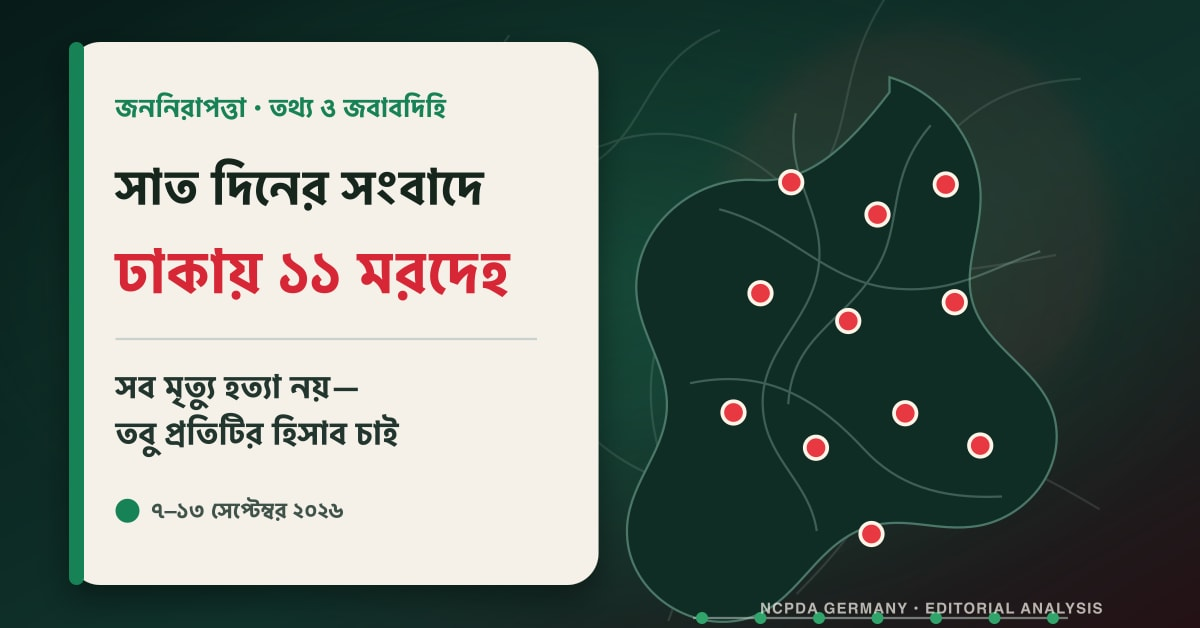
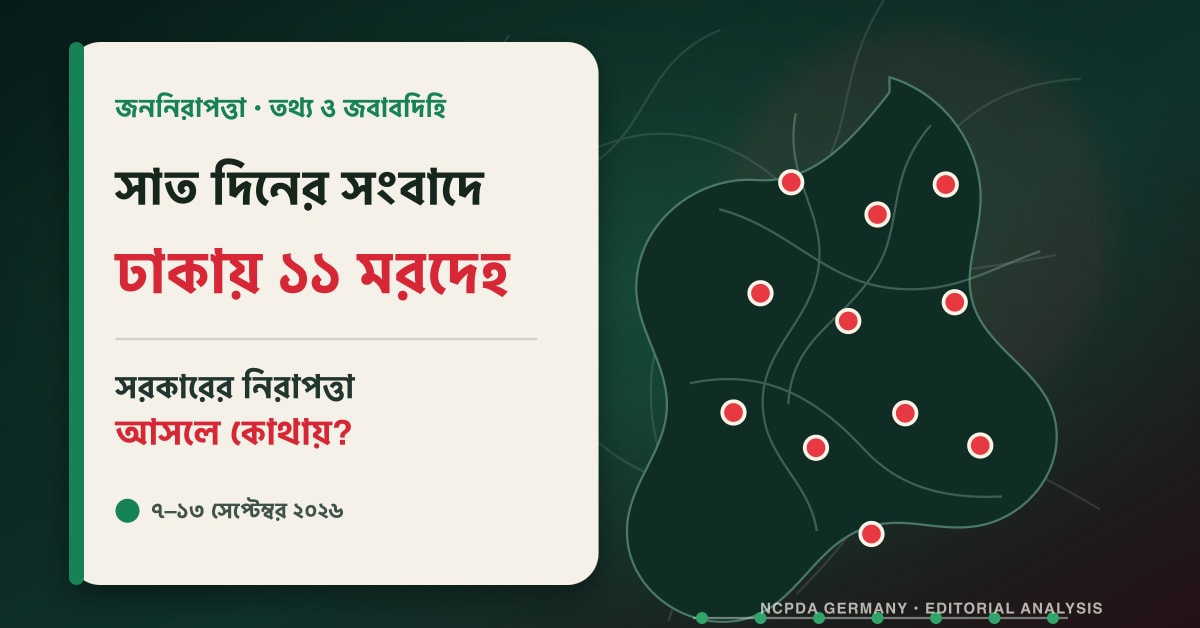
Strengthen public safety editorial voice

Changed region(s): [[0.0925, 0.5748, 0.3392, 0.7261]]

diff --git a/blog/dhaka-seven-days-eleven-bodies-public-safety-2026/index.html b/blog/dhaka-seven-days-eleven-bodies-public-safety-2026/index.html
@@ -5,16 +5,16 @@
   <meta name="viewport" content="width=device-width, initial-scale=1">
   <meta name="robots" content="index,follow,max-image-preview:large,max-snippet:-1,max-video-preview:-1">
   <meta name="theme-color" content="#0d6130">
-  <title>সাত দিনের সংবাদে ঢাকায় ১১ মরদেহ: সব মৃত্যু হত্যা নয়—তবু নিরাপত্তার হিসাব কোথায়? | NCP Diaspora Alliance Germany</title>
-  <meta name="description" content="৭–১৩ সেপ্টেম্বরের সংবাদ-অনুসন্ধানে ঢাকার বিভিন্ন স্থান থেকে অন্তত ১১ জনের মরদেহ উদ্ধারের খবর মিলেছে। সবগুলো হত্যা নয়; তবু সহিংস মৃত্যু, অজ্ঞাত মরদেহ ও তদন্তের অগ্রগতি নিয়ে সরকারের প্রকাশ্য হিসাব জরুরি।">
+  <title>সাত দিনে রাজধানীতে ১১ মরদেহ: নিরাপত্তার ব্যর্থতা আর কত মৃত্যুতে স্বীকার করবে সরকার? | NCP Diaspora Alliance Germany</title>
+  <meta name="description" content="খণ্ডিত নারী, মাটিচাপা ব্যবসায়ী, ছুরিকাহত যুবক আর পরিচয়হীন মরদেহ—এক সপ্তাহের ঢাকা সরকারের নিরাপত্তা-দাবির সামনে নির্মম প্রশ্ন রেখে গেছে। জবাব এখন বিবৃতিতে নয়, দৃশ্যমান ফল ও প্রকাশ্য হিসাবে দিতে হবে।">
   <link rel="canonical" href="https://ncpdagermany.de/blog/dhaka-seven-days-eleven-bodies-public-safety-2026/">
   <link rel="icon" href="/favicon-48.png" sizes="48x48" type="image/png">
   <meta property="og:type" content="article">
   <meta property="og:site_name" content="NCP Diaspora Alliance Germany">
   <meta property="og:locale" content="bn_BD">
   <meta property="og:url" content="https://ncpdagermany.de/blog/dhaka-seven-days-eleven-bodies-public-safety-2026/">
-  <meta property="og:title" content="সাত দিনের সংবাদে ঢাকায় ১১ মরদেহ: সব মৃত্যু হত্যা নয়—তবু নিরাপত্তার হিসাব কোথায়?">
-  <meta property="og:description" content="৭–১৩ সেপ্টেম্বরের সংবাদ-অনুসন্ধানে ঢাকার বিভিন্ন স্থান থেকে অন্তত ১১ জনের মরদেহ উদ্ধারের খবর মিলেছে। সবগুলো হত্যা নয়; তবু সহিংস মৃত্যু, অজ্ঞাত মরদেহ ও তদন্তের অগ্রগতি নিয়ে সরকারের প্রকাশ্য হিসাব জরুরি।">
+  <meta property="og:title" content="সাত দিনে রাজধানীতে ১১ মরদেহ: নিরাপত্তার ব্যর্থতা আর কত মৃত্যুতে স্বীকার করবে সরকার?">
+  <meta property="og:description" content="খণ্ডিত নারী, মাটিচাপা ব্যবসায়ী, ছুরিকাহত যুবক আর পরিচয়হীন মরদেহ—এক সপ্তাহের ঢাকা সরকারের নিরাপত্তা-দাবির সামনে নির্মম প্রশ্ন রেখে গেছে। জবাব এখন বিবৃতিতে নয়, দৃশ্যমান ফল ও প্রকাশ্য হিসাবে দিতে হবে।">
   <meta property="og:image" content="https://ncpdagermany.de/img/blog/dhaka-public-safety-accountability-share.jpg">
   <meta property="og:image:secure_url" content="https://ncpdagermany.de/img/blog/dhaka-public-safety-accountability-share.jpg">
   <meta property="og:image:type" content="image/jpeg">
@@ -23,44 +23,38 @@
   <meta property="og:image:alt" content="ঢাকার মানচিত্রের বিমূর্ত রেখা, ৭ দিনের সময়রেখা এবং ১১টি চিহ্ন দিয়ে জননিরাপত্তার হিসাব তুলে ধরা সম্পাদকীয় চিত্র">
   <meta property="article:published_time" content="2026-09-14T14:22:00+02:00">
   <meta name="twitter:card" content="summary_large_image">
-  <meta name="twitter:title" content="সাত দিনের সংবাদে ঢাকায় ১১ মরদেহ: সব মৃত্যু হত্যা নয়—তবু নিরাপত্তার হিসাব কোথায়?">
-  <meta name="twitter:description" content="৭–১৩ সেপ্টেম্বরের সংবাদ-অনুসন্ধানে ঢাকার বিভিন্ন স্থান থেকে অন্তত ১১ জনের মরদেহ উদ্ধারের খবর মিলেছে। সবগুলো হত্যা নয়; তবু সহিংস মৃত্যু, অজ্ঞাত মরদেহ ও তদন্তের অগ্রগতি নিয়ে সরকারের প্রকাশ্য হিসাব জরুরি।">
+  <meta name="twitter:title" content="সাত দিনে রাজধানীতে ১১ মরদেহ: নিরাপত্তার ব্যর্থতা আর কত মৃত্যুতে স্বীকার করবে সরকার?">
+  <meta name="twitter:description" content="খণ্ডিত নারী, মাটিচাপা ব্যবসায়ী, ছুরিকাহত যুবক আর পরিচয়হীন মরদেহ—এক সপ্তাহের ঢাকা সরকারের নিরাপত্তা-দাবির সামনে নির্মম প্রশ্ন রেখে গেছে। জবাব এখন বিবৃতিতে নয়, দৃশ্যমান ফল ও প্রকাশ্য হিসাবে দিতে হবে।">
   <meta name="twitter:image" content="https://ncpdagermany.de/img/blog/dhaka-public-safety-accountability-share.jpg">
-  <script type="application/ld+json">{"@context":"https://schema.org","@type":"Article","mainEntityOfPage":"https://ncpdagermany.de/blog/dhaka-seven-days-eleven-bodies-public-safety-2026/","headline":"সাত দিনের সংবাদে ঢাকায় ১১ মরদেহ: সব মৃত্যু হত্যা নয়—তবু নিরাপত্তার হিসাব কোথায়?","description":"৭–১৩ সেপ্টেম্বরের সংবাদ-অনুসন্ধানে ঢাকার বিভিন্ন স্থান থেকে অন্তত ১১ জনের মরদেহ উদ্ধারের খবর মিলেছে। সবগুলো হত্যা নয়; তবু সহিংস মৃত্যু, অজ্ঞাত মরদেহ ও তদন্তের অগ্রগতি নিয়ে সরকারের প্রকাশ্য হিসাব জরুরি।","image":["https://ncpdagermany.de/img/blog/dhaka-public-safety-accountability-share.jpg"],"datePublished":"2026-09-14T14:22:00+02:00","dateModified":"2026-09-14T14:22:00+02:00","inLanguage":"bn","author":{"@type":"Organization","name":"সম্পাদকীয় ডেস্ক"},"publisher":{"@type":"Organization","name":"NCP Diaspora Alliance Germany","url":"https://ncpdagermany.de/","logo":{"@type":"ImageObject","url":"https://ncpdagermany.de/img/logo/logo-premium.png"}}}</script>
+  <script type="application/ld+json">{"@context":"https://schema.org","@type":"Article","mainEntityOfPage":"https://ncpdagermany.de/blog/dhaka-seven-days-eleven-bodies-public-safety-2026/","headline":"সাত দিনে রাজধানীতে ১১ মরদেহ: নিরাপত্তার ব্যর্থতা আর কত মৃত্যুতে স্বীকার করবে সরকার?","description":"খণ্ডিত নারী, মাটিচাপা ব্যবসায়ী, ছুরিকাহত যুবক আর পরিচয়হীন মরদেহ—এক সপ্তাহের ঢাকা সরকারের নিরাপত্তা-দাবির সামনে নির্মম প্রশ্ন রেখে গেছে। জবাব এখন বিবৃতিতে নয়, দৃশ্যমান ফল ও প্রকাশ্য হিসাবে দিতে হবে।","image":["https://ncpdagermany.de/img/blog/dhaka-public-safety-accountability-share.jpg"],"datePublished":"2026-09-14T14:22:00+02:00","dateModified":"2026-09-14T14:22:00+02:00","inLanguage":"bn","author":{"@type":"Organization","name":"সম্পাদকীয় ডেস্ক"},"publisher":{"@type":"Organization","name":"NCP Diaspora Alliance Germany","url":"https://ncpdagermany.de/","logo":{"@type":"ImageObject","url":"https://ncpdagermany.de/img/logo/logo-premium.png"}}}</script>
   <style>:root{--green:#0d6130;--red:#c01636;--ink:#14251a;--muted:#526158;--line:#dce9e0}*{box-sizing:border-box}body{margin:0;color:var(--ink);background:#f6faf7;font-family:"Noto Sans Bengali","Hind Siliguri",system-ui,sans-serif;line-height:1.78}a{color:var(--green)}.shell{width:min(900px,calc(100% - 34px));margin:auto}.site-head{display:flex;align-items:center;justify-content:space-between;gap:20px;padding:18px 0}.brand{display:flex;align-items:center;gap:11px;text-decoration:none;font-weight:800;color:var(--ink)}.brand img{width:58px;height:58px;object-fit:contain}.site-head>a:last-child{font-weight:750;text-decoration:none}.article{margin:18px auto 60px;background:#fff;border:1px solid var(--line);border-radius:28px;overflow:hidden;box-shadow:0 24px 70px rgba(9,70,37,.1)}.article-head{padding:clamp(30px,7vw,68px)}.tag{margin:0;color:var(--red);font-weight:850}.article h1{margin:13px 0 18px;font-size:clamp(2rem,5vw,4.3rem);line-height:1.1;letter-spacing:-.025em}.meta{color:var(--muted);font-size:.9rem}.dek{font-size:1.15rem;color:#34473b}.cover{width:100%;aspect-ratio:1200/628;object-fit:cover}.credit{margin:0;padding:9px 18px;background:#edf5f0;color:var(--muted);font-size:.78rem}.facts{display:grid;grid-template-columns:repeat(auto-fit,minmax(170px,1fr));gap:10px;padding:0;list-style:none}.facts li{display:grid;gap:6px;padding:16px;border:1px solid var(--line);border-radius:15px;background:#f7fbf8}.facts strong{color:var(--green);font-size:1.15rem}.body{padding:clamp(30px,7vw,68px);padding-top:22px}.body h2{margin:2.2em 0 .55em;font-size:clamp(1.5rem,3vw,2.2rem);line-height:1.25}.body p,.body li{font-size:1.06rem}.body .callout{margin:30px 0;padding:22px;border-left:5px solid var(--red);background:#fff4f6;font-size:1.1rem;font-weight:700}.body figure{margin:32px 0}.body figure img{width:100%;height:auto;border-radius:18px}.body figcaption{margin-top:8px;color:var(--muted);font-size:.8rem}.sources{margin-top:50px;padding-top:28px;border-top:1px solid var(--line)}.sources li+li{margin-top:10px}.cta{display:flex;gap:12px;flex-wrap:wrap;margin-top:34px}.cta a{padding:11px 17px;border-radius:999px;background:var(--green);color:#fff;text-decoration:none;font-weight:800}.cta a+ a{background:#edf6f0;color:var(--green)}footer{padding:28px 0;color:var(--muted);font-size:.85rem}@media(max-width:640px){.brand span{display:none}.article{border-radius:20px}.article h1{font-size:2rem}.body p,.body li{font-size:1rem}}</style>
 </head>
 <body>
   <header class="shell site-head"><a class="brand" href="/"><img src="/img/logo/logo-navbar-bn-seo.webp" width="220" height="220" alt="NCP Diaspora Alliance Germany"><span>NCP Diaspora Alliance Germany</span></a><a href="/?blog=dhaka-seven-days-eleven-bodies-public-safety-2026#blog">মূল ওয়েবসাইট →</a></header>
   <main class="shell article">
-    <header class="article-head"><p class="tag">জননিরাপত্তা ও জবাবদিহি</p><h1>সাত দিনের সংবাদে ঢাকায় ১১ মরদেহ: সব মৃত্যু হত্যা নয়—তবু নিরাপত্তার হিসাব কোথায়?</h1><p class="meta">সম্পাদকীয় ডেস্ক · ১৪ সেপ্টেম্বর ২০২৬</p><p class="dek">৭–১৩ সেপ্টেম্বরের সংবাদ-অনুসন্ধানে ঢাকার বিভিন্ন স্থান থেকে অন্তত ১১ জনের মরদেহ উদ্ধারের খবর মিলেছে। সবগুলো হত্যা নয়; তবু সহিংস মৃত্যু, অজ্ঞাত মরদেহ ও তদন্তের অগ্রগতি নিয়ে সরকারের প্রকাশ্য হিসাব জরুরি।</p><ul class="facts"><li><strong>১১ মরদেহ</strong><span>৭–১৩ সেপ্টেম্বরের সংবাদ-অনুসন্ধানে ঢাকার বিভিন্ন স্থান থেকে উদ্ধারের অন্তত প্রকাশিত সংখ্যা; এটি কোনো সরকারি সাপ্তাহিক মোট নয়</span></li><li><strong>৫টি</strong><span>১২ সেপ্টেম্বর এক দিনেই আদাবর, লালবাগ, শাহবাগ ও ঢাকা মেডিকেল এলাকা ঘিরে প্রকাশিত মরদেহ উদ্ধারের খবর</span></li><li><strong>৯১৫ মামলা</strong><span>পুলিশ সদর দপ্তরের তথ্য অনুযায়ী ২০২৬ সালের মার্চ–মে সময়ে দেশে নথিভুক্ত হত্যা মামলা; ঘটনাকাল ও মামলা নথিভুক্তির সময় এক নাও হতে পারে</span></li><li><strong>৩১৭ → ২৮৮ → ৩১০</strong><span>মার্চ, এপ্রিল ও মে ২০২৬-এ নথিভুক্ত হত্যা মামলার মাসভিত্তিক হিসাব</span></li></ul></header>
+    <header class="article-head"><p class="tag">জননিরাপত্তা ও জবাবদিহি</p><h1>সাত দিনে রাজধানীতে ১১ মরদেহ: নিরাপত্তার ব্যর্থতা আর কত মৃত্যুতে স্বীকার করবে সরকার?</h1><p class="meta">সম্পাদকীয় ডেস্ক · ১৪ সেপ্টেম্বর ২০২৬</p><p class="dek">খণ্ডিত নারী, মাটিচাপা ব্যবসায়ী, ছুরিকাহত যুবক আর পরিচয়হীন মরদেহ—এক সপ্তাহের ঢাকা সরকারের নিরাপত্তা-দাবির সামনে নির্মম প্রশ্ন রেখে গেছে। জবাব এখন বিবৃতিতে নয়, দৃশ্যমান ফল ও প্রকাশ্য হিসাবে দিতে হবে।</p><ul class="facts"><li><strong>১১ মরদেহ</strong><span>৭–১৩ সেপ্টেম্বর ঢাকার বিভিন্ন স্থান থেকে উদ্ধারের সংবাদিত ন্যূনতম সংখ্যা</span></li><li><strong>৫টি</strong><span>১২ সেপ্টেম্বর এক দিনেই রাজধানীর চার এলাকা ঘিরে মরদেহ উদ্ধারের সংবাদ</span></li><li><strong>৯১৫ মামলা</strong><span>পুলিশ সদর দপ্তরের হিসাবে মার্চ–মে ২০২৬-এ দেশে নথিভুক্ত হত্যা মামলা</span></li><li><strong>+১৯%</strong><span>তুলনাযোগ্য ২০২৫ হিসাবের চেয়ে ২০২৬-এর তিন মাসে হত্যা মামলা বৃদ্ধির হার</span></li></ul></header>
     <img class="cover" src="/img/blog/dhaka-public-safety-accountability.svg" width="1200" height="628" alt="ঢাকার মানচিত্রের বিমূর্ত রেখা, ৭ দিনের সময়রেখা এবং ১১টি চিহ্ন দিয়ে জননিরাপত্তার হিসাব তুলে ধরা সম্পাদকীয় চিত্র">
     <p class="credit">NCP Diaspora Alliance Germany-এর তথ্যভিত্তিক সম্পাদকীয় চিত্র; এটি কোনো বাস্তব ঘটনাস্থলের আলোকচিত্র নয়।</p>
-    <article class="body"><p>মাত্র সাত দিনের সংবাদ। গুলিস্তানের রাস্তা, খিলগাঁওয়ের খাল, লালবাগের বাসা, যাত্রাবাড়ীর সড়ক, আদাবরের খালপাড়, শাহবাগের ফুটপাত ও ঢাকা মেডিকেলের অপেক্ষাগার—এসব স্থান থেকে অন্তত ১১ জনের মরদেহ উদ্ধারের খবর প্রকাশিত হয়েছে ৭ থেকে ১৩ সেপ্টেম্বরের মধ্যে। একই তালিকায় আছে খণ্ডিত মরদেহ, ছুরিকাঘাতের চিহ্ন, হত্যার পর মাটিচাপা দেওয়া দেহ; আবার আছে এমন মৃত্যুও, যেগুলোকে পুলিশ প্রাথমিকভাবে অসুস্থতা বা স্বাভাবিক কারণের সম্ভাবনা হিসেবে দেখছে।</p>
-      <p>তাই প্রথমেই সীমাটি স্পষ্ট করা জরুরি: ১১টি মরদেহ উদ্ধার মানে ১১টি হত্যাকাণ্ড নয়। এই সংখ্যাটি সংবাদমাধ্যমে প্রকাশিত পৃথক ঘটনার সম্পাদকীয় সংকলন; এটি ঢাকা মহানগর পুলিশের আনুষ্ঠানিক সাপ্তাহিক অপরাধপরিসংখ্যানও নয়। কিন্তু এই সতর্কতা উদ্বেগকে ছোট করে না। বরং সঠিক প্রশ্নটি সামনে আনে—কতটি মৃত্যু হত্যাজনিত, কতটির কারণ ময়নাতদন্তে নিশ্চিত হলো, কতজনের পরিচয় পাওয়া গেল এবং কতটি মামলায় তদন্ত এগোল?</p>
-      <aside class="callout">সব মৃত্যু হত্যা নয়। কিন্তু প্রতিটি অস্বাভাবিক মৃত্যু, প্রতিটি অজ্ঞাত মরদেহ এবং প্রতিটি সহিংস হত্যার বিশ্বাসযোগ্য তদন্ত নিশ্চিত করা রাষ্ট্রেরই দায়।</aside>
-      <h2>সাত দিনের ঘটনাগুলো কী বলছে</h2>
-      <p>৭ সেপ্টেম্বর গুলিস্তানের শহীদ মতিউর রহমান পার্ক এলাকা থেকে আনুমানিক ৬৫ বছর বয়সী এক অজ্ঞাত ব্যক্তিকে অচেতন অবস্থায় উদ্ধার করা হয়; হাসপাতালে নেওয়ার পর তাকে মৃত ঘোষণা করা হয়। পুলিশ অসুস্থতাজনিত মৃত্যুর প্রাথমিক ধারণা দিলেও ময়নাতদন্তের ফলের কথা বলেছে। এখানেই একটি মানবিক প্রশ্ন আছে: পরিচয়হীন ও বাস্তুহীন মানুষের মৃত্যু কি কেবল মর্গের একটি নম্বর হয়ে থাকবে, নাকি পরিচয় শনাক্ত ও পরিবার খোঁজার ফলও প্রকাশ হবে?</p>
-      <p>৯ সেপ্টেম্বর খিলগাঁওয়ের জিরানি খাল থেকে জজ মিয়ার মরদেহ উদ্ধারের ঘটনায় প্রকাশিত প্রতিবেদনে ধারালো অস্ত্রের আঘাতের কথা এসেছে। পরে একজন গ্রেপ্তার হয়ে আদালতে স্বীকারোক্তিমূলক জবানবন্দি দিয়েছেন বলে পুলিশ ও আদালতসূত্র জানায়। একই দিনে লালবাগে তৌহিদা হোসেন তিশার ঝুলন্ত মরদেহ উদ্ধারের পর স্বজনেরা হত্যার অভিযোগ করেন, আর পুলিশ আত্মহত্যার প্রাথমিক ধারণা দেয়। গেন্ডারিয়ায় ১০ বছরের তানভীর হোসেনের মৃত্যুতেও পরিবার ও পুলিশের প্রাথমিক বক্তব্য এক ছিল না। দুটি ক্ষেত্রেই চূড়ান্ত সিদ্ধান্তের ভিত্তি হওয়া উচিত ময়নাতদন্ত, আলামত ও নিরপেক্ষ তদন্ত—অনুমান নয়।</p>
-      <p>১১ সেপ্টেম্বর লালবাগে নিখোঁজ ব্যবসায়ী শেখ ওয়াসিম রনির হাত-পা বাঁধা মরদেহ একটি ভবনের নিচে মাটিচাপা অবস্থায় পাওয়া যায়। পুলিশ জানায়, পাওনা টাকা নিয়ে বিরোধের জেরে হত্যার পর মরদেহ লুকানো হয়েছিল; গ্রেপ্তার এক ব্যক্তি আদালতে স্বীকারোক্তিমূলক জবানবন্দি দেন। একই দিনে যাত্রাবাড়ীর কাজলা-ছনটেক এলাকায় রাব্বী নামে এক যুবকের রক্তাক্ত মরদেহ উদ্ধারের খবর আসে; তার শরীরে ছুরিকাঘাতের চিহ্নের কথা জানানো হয় এবং ঘটনাটি তদন্তাধীন ছিল।</p>
-      <p>১২ সেপ্টেম্বরের চিত্র আরও অস্বস্তিকর। আদাবরের একটি খালের পাশ থেকে ব্যাগে রাখা এক অজ্ঞাত নারীর খণ্ডিত মরদেহ উদ্ধার করে পুলিশ। লালবাগের ভাড়া বাসায় আইনজীবী আনোয়ার হোসেনের অর্ধগলিত মরদেহ পাওয়া যায়; পুলিশ স্ট্রোকের সম্ভাবনার কথা বললেও ময়নাতদন্ত ছাড়া কারণ নিশ্চিত করেনি। শাহবাগে জাতীয় ঈদগাহসংলগ্ন দুটি ফুটপাত থেকে দুই অজ্ঞাত পুরুষের মরদেহ এবং ঢাকা মেডিকেলের অপেক্ষাগারের পাশে আরেক অজ্ঞাত ব্যক্তির মরদেহ পাওয়ার খবরও প্রকাশিত হয়। এসব ঘটনার কয়েকটিতে অসুস্থতাজনিত মৃত্যুর প্রাথমিক ধারণা ছিল।</p>
-      <h2>এক সপ্তাহের সংবাদ দিয়ে অপরাধের হার মাপা যায় না</h2>
-      <p>একটি সপ্তাহে কতটি মরদেহ উদ্ধার হয়েছে—এই সংখ্যা মানুষের উদ্বেগ বোঝায়, কিন্তু একা দিয়ে অপরাধ বেড়েছে না কমেছে, তা প্রমাণ করা যায় না। তার জন্য একই সংজ্ঞায় দীর্ঘ সময়ের তথ্য দরকার: ঘটনার তারিখ, মামলা নথিভুক্তির তারিখ, মৃত্যু ও হত্যা মামলার পার্থক্য, তদন্তের ফল এবং আগের বছরের তুলনা। সংবাদে বেশি প্রতিবেদন হওয়া বা মামলা বেশি নথিভুক্ত হওয়াও সংখ্যাকে প্রভাবিত করতে পারে।</p>
-      <p>তবু এই সংবাদ-নমুনা তিনটি আলাদা ব্যর্থতার ঝুঁকি দেখায়। প্রথমত, সহিংস অপরাধ প্রতিরোধে গোয়েন্দা নজরদারি ও অবৈধ অস্ত্র নিয়ন্ত্রণ। দ্বিতীয়ত, হত্যার পর দ্রুত আলামত সংগ্রহ, অভিযুক্ত শনাক্ত এবং আদালতে টেকসই তদন্ত। তৃতীয়ত, অজ্ঞাত ও বাস্তুহীন মানুষের পরিচয় শনাক্ত, চিকিৎসা ও সামাজিক সুরক্ষা। জননিরাপত্তা শুধু খুনি গ্রেপ্তারের প্রশ্ন নয়; একজন মানুষ যেন রাস্তা বা অপেক্ষাগারে পরিচয়হীনভাবে মারা না যান, সেটিও রাষ্ট্রের দায়।</p>
-      <h2>বড় হিসাবটি আরও কঠিন প্রশ্ন তোলে</h2>
-      <p>পুলিশ সদর দপ্তরের তথ্য উদ্ধৃত করে দ্য ডেইলি স্টার জানিয়েছে, ২০২৬ সালের মার্চ, এপ্রিল ও মে—এই তিন মাসে দেশে ৯১৫টি হত্যা মামলা নথিভুক্ত হয়: মার্চে ৩১৭, এপ্রিলে ২৮৮ এবং মে মাসে ৩১০। একই প্রতিবেদনে ২০২৫ সালের একই সময়ে নথিভুক্ত ৯৯৩ মামলার মধ্যে ২২৬টি আগের ঘটনার মামলা হওয়ায় তুলনাযোগ্য সংখ্যা ৭৬৭ বলা হয়েছে; ২০২৪ সালের একই সময়ের সংখ্যা ছিল ৭৯৪। সেই হিসাবে ২০২৬-এর ৯১৫ মামলা তুলনাযোগ্য ২০২৫ সংখ্যার চেয়ে প্রায় ১৯ শতাংশ এবং ২০২৪-এর চেয়ে প্রায় ১৫ শতাংশ বেশি।</p>
-      <p>এখানেও ভাষা ঠিক রাখা জরুরি। ৯১৫টি হত্যা মামলা মানেই ওই তিন মাসে ঠিক ৯১৫ জন নিহত হয়েছেন—এমন নয়। একটি মামলায় একাধিক ভুক্তভোগী থাকতে পারে, আবার আগের ঘটনার মামলা পরে নথিভুক্ত হতে পারে। কিন্তু মামলা-গণনার সীমাবদ্ধতা দেখিয়ে ধারাবাহিক সহিংসতার উদ্বেগ উড়িয়ে দেওয়াও চলে না। সরকারের উচিত ঘটনাভিত্তিক ও মামলা-ভিত্তিক তথ্য আলাদা করে প্রকাশ করা, যাতে রাজনৈতিক পক্ষগুলো নিজেদের সুবিধামতো একই সংখ্যার ভিন্ন অর্থ দাঁড় করাতে না পারে।</p>
-      <p>এলাকাভিত্তিক হিসাবেও চাপ স্পষ্ট ছিল। মার্চ–মে সময়ে ঢাকা রেঞ্জে ২০৭, চট্টগ্রাম রেঞ্জে ১৮৬, রাজশাহী রেঞ্জে ১০৬ এবং খুলনা রেঞ্জে ৮৪টি হত্যা মামলা নথিভুক্ত হওয়ার তথ্য প্রকাশিত হয়েছে। মহানগরগুলোর মধ্যে ঢাকায় ছিল ৫৭টি। এসব সংখ্যা কোথায় টহল, তদন্তকারী, ফরেনসিক সহায়তা এবং অবৈধ অস্ত্র উদ্ধারে বেশি সম্পদ দরকার—সেই সিদ্ধান্তের ভিত্তি হওয়া উচিত।</p>
-      <h2>পুলিশের ব্যাখ্যাও শুনতে হবে</h2>
-      <p>পুলিশ সদর দপ্তর জুনে বলেছিল, মার্চ–এপ্রিলের ৬০৫টি হত্যা মামলার বেশির ভাগই পূর্বশত্রুতা, পারিবারিক বিরোধ, সম্পত্তি ও আর্থিক দ্বন্দ্বসহ অরাজনৈতিক কারণে হয়েছে। তাদের যুক্তি, এই সংখ্যা গত দশকের বার্ষিক প্রবণতার বাইরে নয় এবং মামলা নথিভুক্তিতে বাড়তি স্বচ্ছতাও মোট বাড়াতে পারে। স্বরাষ্ট্রমন্ত্রীও সরকারি তথ্যের ভিত্তিতে সামগ্রিক আইনশৃঙ্খলায় উন্নতির দাবি করেন এবং তদন্ত, টহল ও ময়নাতদন্তে সম্পদ-ঘাটতির কথা স্বীকার করেন।</p>
-      <p>এই ব্যাখ্যার একটি গুরুত্বপূর্ণ দিক আছে: সব হত্যার পেছনে রাজনৈতিক উদ্দেশ্য নেই, এবং রাষ্ট্র প্রতিটি ব্যক্তিগত বিরোধ আগেভাগে জানতে পারে না। কিন্তু ‘ব্যক্তিগত’ বা ‘পারিবারিক’ কারণ রাষ্ট্রের দায় শেষ করে না। পাওনা টাকার বিরোধে মানুষ হত্যা, ঘরোয়া সহিংসতা, ছিনতাই, কিশোর গ্যাং বা অপরাধীচক্র—সব ক্ষেত্রেই প্রতিরোধ, দ্রুত সাড়া, নিরপেক্ষ তদন্ত ও বিচারের সক্ষমতা সরকারের আইনশৃঙ্খলা নীতির পরীক্ষা।</p>
-      <aside class="callout">অপরাধের কারণ অরাজনৈতিক হতে পারে; কিন্তু নাগরিককে সুরক্ষা দেওয়ার দায় কখনো অরাজনৈতিক হয়ে যায় না।</aside>
-      <h2>কোন হিসাব প্রকাশ করলে মানুষ বিশ্বাস করবে</h2>
-      <p>সরকারের সাফল্য শুধু অভিযান বা গ্রেপ্তারের মোট দিয়ে মাপা যাবে না। মানুষ জানতে চায়—কতটি সহিংস মৃত্যুর ঘটনায় মামলা হলো, কতটিতে ফরেনসিক প্রতিবেদন এল, কতজন অভিযুক্ত শনাক্ত ও গ্রেপ্তার হলো, কত মামলায় অভিযোগপত্র জমা পড়ল, কতজন অজ্ঞাত মৃতের পরিচয় জানা গেল এবং পরিবারকে জানানো হলো। এই ফল ছাড়া ‘পরিস্থিতি নিয়ন্ত্রণে’ কথাটি যাচাইযোগ্য হয় না।</p>
-      <ul><li>ঢাকা মহানগর পুলিশ প্রতি সপ্তাহে থানা ও অপরাধের ধরনভিত্তিক একটি প্রকাশ্য সারণি দিক—মৃত্যু, হত্যা মামলা, অস্বাভাবিক মৃত্যু ও পরে বদলে যাওয়া শ্রেণিবিন্যাস আলাদা করে।</li><li>প্রতিটি অজ্ঞাত মরদেহের ক্ষেত্রে আঙুলের ছাপ, নিখোঁজ ব্যক্তির তালিকা ও সিআইডি শনাক্তকরণ প্রক্রিয়ার অগ্রগতি ব্যক্তিগত গোপনীয়তা রক্ষা করে প্রকাশ করা হোক।</li><li>হত্যা মামলার ৩০, ৬০ ও ৯০ দিনের তদন্ত-অগ্রগতি এবং অভিযোগপত্র দেওয়ার সময় প্রকাশ করা হোক; শুধু গ্রেপ্তারের সংবাদে জবাবদিহি শেষ না হোক।</li><li>অবৈধ অস্ত্র উদ্ধার, অপরাধপ্রবণ এলাকা, পুনরাবৃত্ত অপরাধী ও টহলের ঘাটতি নিয়ে লক্ষ্যভিত্তিক পরিকল্পনা এবং মাসিক ফল জানানো হোক।</li><li>ময়নাতদন্ত ও ফরেনসিক প্রতিবেদনের দীর্ঘসূত্রতা কমাতে জনবল, পরীক্ষাগার ও বাজেটের ঘাটতি কত—স্বরাষ্ট্র ও স্বাস্থ্য মন্ত্রণালয় যৌথভাবে সেই হিসাব দিক।</li></ul>
-      <h2>‘বিচ্ছিন্ন’ বলে পাশ কাটানোর সময় নেই</h2>
-      <p>৭–১৩ সেপ্টেম্বরের ১১টি মরদেহ উদ্ধারের সংবাদ একটি পূর্ণাঙ্গ অপরাধচিত্র নয়। এগুলোর সবগুলো হত্যাকাণ্ডও নয়। কিন্তু কয়েক দিনের মধ্যে খণ্ডিত মরদেহ, ছুরিকাঘাত, খাল থেকে উদ্ধার এবং হত্যার পর মাটিচাপার মতো ঘটনাগুলো মানুষের নিরাপত্তাবোধে যে আঘাত করে, তা কোনো পরিসংখ্যানের টীকা দিয়ে মুছে ফেলা যায় না।</p>
-      <p>সরকার যদি বলে পরিস্থিতি উন্নত হচ্ছে, তবে সেই দাবির পক্ষে খোলা তথ্য দিক—কেবল মামলা কত হলো তা নয়, অপরাধ রোধ ও বিচার কতদূর এগোল তাও। আর যেখানে তথ্য অসম্পূর্ণ, সেখানে অসম্পূর্ণ বলুক। জননিরাপত্তা নিয়ে আস্থা তৈরি হয় স্পষ্ট হিসাব, দৃশ্যমান ফল এবং প্রতিটি মানুষের জীবনের সমান মূল্য দিয়ে। রাজধানীর রাস্তায়, খালে বা অপেক্ষাগারে পড়ে থাকা কোনো মরদেহই যেন কেবল আরেকটি ‘বিচ্ছিন্ন ঘটনা’ হয়ে হারিয়ে না যায়।</p>
-      <p>সম্পাদকীয় নোট: এই লেখার ১১ সংখ্যাটি ৭–১৩ সেপ্টেম্বর ২০২৬ সময়সীমায় প্রকাশিত সংবাদপ্রতিবেদনের একটি ন্যূনতম সংকলন; একই সময়ের সব মৃত্যু বা অপরাধের সরকারি মোট নয়। প্রাথমিক পুলিশি ধারণা ও পরিবারের অভিযোগকে চূড়ান্ত সিদ্ধান্ত হিসেবে উপস্থাপন করা হয়নি। ময়নাতদন্ত বা তদন্তে নতুন তথ্য এলে সংশ্লিষ্ট ঘটনার বর্ণনা সংশোধন করা উচিত।</p><section class="sources"><h2>তথ্যসূত্র</h2><ol><li><a href="https://www.police.gov.bd/index.php/en/january_2020?page=1" rel="noopener noreferrer">বাংলাদেশ পুলিশ: ২০২৬ সালের মাসভিত্তিক সরকারি অপরাধ পরিসংখ্যানের তালিকা</a></li><li><a href="https://www.thedailystar.net/news/crime-justice/news/10-killings-day-fuel-concerns-over-law-and-order-4199896" rel="noopener noreferrer">দ্য ডেইলি স্টার: মার্চ–মে ২০২৬-এ ৯১৫ হত্যা মামলা ও এলাকাভিত্তিক হিসাব, ১৬ জুন ২০২৬</a></li><li><a href="https://www.tbsnews.net/bangladesh/crime/police-say-tibs-murder-statistic-does-not-indicate-crime-surge-reflects-historical" rel="noopener noreferrer">দ্য বিজনেস স্ট্যান্ডার্ড: হত্যা মামলার সংখ্যা নিয়ে পুলিশ সদর দপ্তরের ব্যাখ্যা, ৮ জুন ২০২৬</a></li><li><a href="https://www.thedailystar.net/news/crime-justice/news/body-parts-woman-recovered-adabar-canal-4271011" rel="noopener noreferrer">দ্য ডেইলি স্টার: আদাবরের খাল থেকে অজ্ঞাত নারীর খণ্ডিত মরদেহ উদ্ধার, ১২ সেপ্টেম্বর ২০২৬</a></li><li><a href="https://bangla.bdnews24.com/bangladesh/9fdc968ef90f" rel="noopener noreferrer">bdnews24.com: খিলগাঁওয়ের জিরানি খালের মরদেহ ও স্বীকারোক্তিমূলক জবানবন্দি, ১১ সেপ্টেম্বর ২০২৬</a></li><li><a href="https://bangla.bdnews24.com/bangladesh/ac74979b3867" rel="noopener noreferrer">bdnews24.com: লালবাগে ব্যবসায়ীর মাটিচাপা মরদেহ ও গ্রেপ্তার, ১১ সেপ্টেম্বর ২০২৬</a></li><li><a href="https://bangla.bdnews24.com/bangladesh/6d96235aea23" rel="noopener noreferrer">bdnews24.com: তৌহিদা হোসেন তিশার মৃত্যুতে পরিবার ও পুলিশের ভিন্ন প্রাথমিক বক্তব্য, ৯ সেপ্টেম্বর ২০২৬</a></li><li><a href="https://onlinebn.samakal24.com/capital/article/372017/%E2%80%8E%E0%A6%97%E0%A7%87%E0%A6%A8%E0%A7%8D%E0%A6%A1%E0%A6%BE%E0%A6%B0%E0%A6%BF%E0%A7%9F%E0%A6%BE%E0%A7%9F-%E0%A6%B6%E0%A6%BF%E0%A6%B6%E0%A7%81%E0%A6%B0-%E0%A6%AE%E0%A6%B0%E0%A6%A6%E0%A7%87%E0%A6%B9-%E0%A6%89%E0%A6%A6%E0%A7%8D%E0%A6%A7%E0%A6%BE%E0%A6%B0" rel="noopener noreferrer">সমকাল: গেন্ডারিয়ায় শিশু তানভীর হোসেনের মরদেহ উদ্ধার ও তদন্ত, ১০ সেপ্টেম্বর ২০২৬</a></li><li><a href="https://bangla.bdnews24.com/bangladesh/9d8f646592e4" rel="noopener noreferrer">bdnews24.com: জাতীয় ঈদগাহ এলাকার ফুটপাত থেকে দুই অজ্ঞাত ব্যক্তির মরদেহ উদ্ধার, ১২ সেপ্টেম্বর ২০২৬</a></li><li><a href="https://bangla.bdnews24.com/bangladesh/9618adf4b7c8" rel="noopener noreferrer">bdnews24.com: লালবাগের বাসা থেকে আইনজীবী আনোয়ার হোসেনের মরদেহ উদ্ধার, ১২ সেপ্টেম্বর ২০২৬</a></li><li><a href="https://www.jagonews24.com/national/news/1154846" rel="noopener noreferrer">জাগো নিউজ: গুলিস্তানে অজ্ঞাত বৃদ্ধের মরদেহ উদ্ধার, ৮ সেপ্টেম্বর ২০২৬</a></li><li><a href="https://www.jagonews24.com/national/news/1156098" rel="noopener noreferrer">জাগো নিউজ: যাত্রাবাড়ীর ছনটেকে রাব্বীর ছুরিকাঘাতে মৃত্যুর প্রতিবেদন, ১১ সেপ্টেম্বর ২০২৬</a></li><li><a href="https://www.asia-post.com/capital/apqawcvm57oy-%E0%A6%B0%E0%A6%BE%E0%A6%9C%E0%A6%A7%E0%A6%BE%E0%A6%A8%E0%A7%80%E0%A6%A4%E0%A7%87-%E0%A6%8F%E0%A6%95-%E0%A6%A6%E0%A6%BF%E0%A6%A8%E0%A7%87-%E0%A7%AB-%E0%A6%AE%E0%A6%B0%E0%A6%A6%E0%A7%87%E0%A6%B9-%E0%A6%89%E0%A6%A6%E0%A7%8D%E0%A6%A7%E0%A6%BE%E0%A6%B0" rel="noopener noreferrer">এশিয়া পোস্ট: ১২ সেপ্টেম্বর রাজধানীতে পাঁচ মরদেহ উদ্ধারের সংকলিত প্রতিবেদন</a></li></ol></section><div class="cta"><a href="/?blog=dhaka-seven-days-eleven-bodies-public-safety-2026#blog">ইন্টার্যাক্টিভ পাঠ খুলুন</a><a href="/">NCP Germany হোম</a></div></article>
+    <article class="body"><p>একটি রাজধানীর নিরাপত্তা কতটা ভেঙে পড়লে মাত্র সাত দিনের সংবাদে খণ্ডিত নারী, মাটিচাপা ব্যবসায়ী, ছুরিকাহত যুবক, খাল থেকে উদ্ধার করা দেহ এবং ফুটপাত-অপেক্ষাগারে পড়ে থাকা পরিচয়হীন মানুষের সারি দেখা যায়? ৭ থেকে ১৩ সেপ্টেম্বরের মধ্যে ঢাকার বিভিন্ন স্থান থেকে অন্তত ১১ জনের মরদেহ উদ্ধারের সংবাদ আমাদের সামনে এসেছে। এই তালিকা শুধু মৃত্যুর নয়; এটি সরকারের জননিরাপত্তা-ব্যবস্থার গভীর অসুস্থতার একটি নির্মম প্রতিচ্ছবি।</p>
+      <p>সরকার পরিস্থিতি নিয়ন্ত্রণে থাকার দাবি করতে পারে, পুলিশ বিচ্ছিন্ন ঘটনার ব্যাখ্যা দিতে পারে। কিন্তু নাগরিক যখন নিজের বাসা, কর্মস্থল, রাস্তা কিংবা ফেরার পথে নিরাপদ বোধ করে না, তখন সরকারি আশ্বাসের দাম থাকে না। নিরাপত্তা কোনো সংবাদ সম্মেলনের বাক্য নয়—এটি মানুষের বেঁচে বাড়ি ফেরার নিশ্চয়তা। সেই নিশ্চয়তা দিতে সরকার ব্যর্থ হচ্ছে।</p>
+      <aside class="callout">রাজধানীর খাল, রাস্তা ও অপেক্ষাগার যখন একের পর এক মরদেহের ঠিকানা হয়, তখন ‘পরিস্থিতি নিয়ন্ত্রণে’—এই বাক্য আর আশ্বাস নয়; এটি বাস্তবতাকে অস্বীকার করার ভাষা।</aside>
+      <h2>সাত দিনের ঢাকা: প্রতিটি ঘটনা একই প্রশ্নের দিকে নিয়ে যায়</h2>
+      <p>৭ সেপ্টেম্বর গুলিস্তানের শহীদ মতিউর রহমান পার্ক এলাকা থেকে আনুমানিক ৬৫ বছর বয়সী এক অজ্ঞাত ব্যক্তিকে উদ্ধার করে হাসপাতালে নেওয়া হলে চিকিৎসক মৃত ঘোষণা করেন। ৯ সেপ্টেম্বর খিলগাঁওয়ের জিরানি খাল থেকে উদ্ধার হয় জজ মিয়ার মরদেহ; প্রতিবেদনে ধারালো অস্ত্রের আঘাতের কথা এসেছে এবং পরে একজনের স্বীকারোক্তিমূলক জবানবন্দির তথ্য জানায় পুলিশ। একই দিনে লালবাগে তৌহিদা হোসেন তিশার ঝুলন্ত মরদেহ এবং গেন্ডারিয়ায় ১০ বছরের তানভীর হোসেনের দেহ উদ্ধার হয়—দুটি ঘটনাতেই পরিবারের বক্তব্য ও পুলিশের প্রাথমিক ধারণার মধ্যে পার্থক্য ছিল।</p>
+      <p>১১ সেপ্টেম্বর লালবাগে নিখোঁজ ব্যবসায়ী শেখ ওয়াসিম রনির হাত-পা বাঁধা মরদেহ একটি ভবনের নিচে মাটিচাপা অবস্থায় পাওয়া যায়। পাওনা টাকা নিয়ে বিরোধের জেরে তাকে হত্যার কথা পুলিশ জানায়। একই দিনে যাত্রাবাড়ীর কাজলা-ছনটেক এলাকায় রাব্বী নামে এক যুবকের রক্তাক্ত মরদেহ পাওয়া যায়; শরীরে ছিল ছুরিকাঘাতের চিহ্ন।</p>
+      <p>১২ সেপ্টেম্বর আদাবরের একটি খালের পাশে ব্যাগের ভেতর পাওয়া যায় এক অজ্ঞাত নারীর খণ্ডিত মরদেহ। সেদিনই লালবাগে আইনজীবী আনোয়ার হোসেনের অর্ধগলিত দেহ, শাহবাগে জাতীয় ঈদগাহসংলগ্ন ফুটপাত থেকে দুই অজ্ঞাত পুরুষের দেহ এবং ঢাকা মেডিকেলের অপেক্ষাগারের পাশে আরেক অজ্ঞাত ব্যক্তির মরদেহ উদ্ধারের সংবাদ প্রকাশিত হয়। ঘটনাগুলোর আইনি শ্রেণি এক নয়; কিন্তু নিশ্চিত হত্যা, সন্দেহজনক মৃত্যু ও পরিচয়হীন দেহ—প্রতিটিই রাষ্ট্রের প্রতিরোধ, তদন্ত ও মানবিক সুরক্ষার আলাদা ব্যর্থতা সামনে আনে।</p>
+      <h2>৯১৫টি হত্যা মামলা—এ সংখ্যাকে স্বাভাবিক বলার সুযোগ নেই</h2>
+      <p>পুলিশ সদর দপ্তরের তথ্য উদ্ধৃত করে দ্য ডেইলি স্টার জানিয়েছে, ২০২৬ সালের মার্চ, এপ্রিল ও মে—মাত্র তিন মাসে দেশে ৯১৫টি হত্যা মামলা নথিভুক্ত হয়েছে: মার্চে ৩১৭, এপ্রিলে ২৮৮ এবং মে মাসে ৩১০। তুলনাযোগ্য হিসাবে ২০২৫ সালের একই সময়ে ছিল ৭৬৭টি এবং ২০২৪ সালে ৭৯৪টি। অর্থাৎ ২০২৬-এর সংখ্যা আগের বছরের তুলনাযোগ্য হিসাবের চেয়ে প্রায় ১৯ শতাংশ এবং ২০২৪-এর চেয়ে প্রায় ১৫ শতাংশ বেশি। এটি কোনো রাজনৈতিক প্রচারণার সংখ্যা নয়; এটি পুলিশেরই নথি থেকে উঠে আসা বিপদসংকেত।</p>
+      <p>ঢাকা রেঞ্জে ২০৭, চট্টগ্রাম রেঞ্জে ১৮৬, রাজশাহী রেঞ্জে ১০৬ এবং খুলনা রেঞ্জে ৮৪টি হত্যা মামলা নথিভুক্ত হয়েছে। ঢাকা মহানগরে সংখ্যাটি ৫৭। মামলা নথিভুক্তির সময় আর ঘটনার সময় সব ক্ষেত্রে এক না-ও হতে পারে, কিন্তু সেই কারিগরি ব্যাখ্যা মূল সত্য বদলায় না: সহিংসতা মোকাবিলায় সরকারের দৃশ্যমান ফল নেই, আর মানুষের নিরাপত্তাবোধ দ্রুত ক্ষয়ে যাচ্ছে।</p>
+      <h2>‘ব্যক্তিগত বিরোধ’ বললে সরকারের দায় শেষ হয় না</h2>
+      <p>পুলিশ সদর দপ্তর বলেছে, অধিকাংশ হত্যা পূর্বশত্রুতা, পারিবারিক বিরোধ, সম্পত্তি ও আর্থিক দ্বন্দ্বের মতো অরাজনৈতিক কারণে ঘটে এবং বাড়তি স্বচ্ছতায় মামলা নথিভুক্ত হওয়াও সংখ্যা বাড়াতে পারে। এই ব্যাখ্যা সরকারের পক্ষে কোনো মুক্তিপত্র নয়। বিরোধ ব্যক্তিগত হতে পারে, কিন্তু অবৈধ অস্ত্র ঠেকানো, হুমকির অভিযোগে সাড়া দেওয়া, অপরাধীচক্র ভাঙা, দ্রুত আলামত সংগ্রহ এবং বিচার নিশ্চিত করা সম্পূর্ণভাবে রাষ্ট্রের দায়।</p>
+      <p>আরও বেশি মামলা নথিভুক্ত হওয়া অবশ্যই প্রয়োজনীয়। কিন্তু শুধু মামলা গ্রহণ করাই সাফল্য নয়। প্রশ্ন হলো—কতটি হত্যাকাণ্ড প্রতিরোধ করা গেল, কতজন অভিযুক্ত গ্রেপ্তার হলো, কত মামলায় অভিযোগপত্র গেল, কত অপরাধী দণ্ড পেল এবং কত পরিবার ন্যায়বিচার পেল? সরকার এসব ফল প্রকাশ না করে কেবল ‘ঐতিহাসিক সীমা’ কিংবা ‘ব্যক্তিগত বিরোধের’ কথা বললে তা জবাবদিহি নয়, দায় এড়ানোর কৌশল।</p>
+      <aside class="callout">অপরাধের কারণ ব্যক্তিগত হতে পারে; নাগরিককে রক্ষা করতে না পারার রাজনৈতিক ও প্রশাসনিক দায় কিন্তু সরকারেরই।</aside>
+      <h2>অভিযানের বিজ্ঞাপন নয়, ফলের প্রকাশ্য হিসাব চাই</h2>
+      <p>আইনশৃঙ্খলা বাহিনীর অভিযান, বৈঠক কিংবা গ্রেপ্তারের সংবাদ দিয়ে জননিরাপত্তা মাপা যায় না। ফল মাপতে হবে নাগরিকের অভিজ্ঞতায় এবং যাচাইযোগ্য তথ্যে। আমরা সরকারের কাছে পাঁচটি সরাসরি জবাব চাই:</p>
+      <ul><li>প্রতি সপ্তাহে থানা ও অপরাধের ধরনভিত্তিক প্রকাশ্য হিসাব দিন—হত্যা, অস্বাভাবিক মৃত্যু, নিখোঁজ ও পরে বদলে যাওয়া মামলার শ্রেণি আলাদা করে।</li><li>হত্যা মামলার ৩০, ৬০ ও ৯০ দিনের তদন্ত-অগ্রগতি, অভিযোগপত্র ও নিষ্পত্তির হার প্রকাশ করুন।</li><li>অজ্ঞাত মরদেহ শনাক্তে আঙুলের ছাপ, নিখোঁজ তালিকা ও সিআইডির কাজ কতদূর—গোপনীয়তা রক্ষা করে তার ফল জানান।</li><li>অবৈধ অস্ত্র, কিশোর গ্যাং, চাঁদাবাজি ও পুনরাবৃত্ত অপরাধীদের বিরুদ্ধে এলাকার ভিত্তিতে লক্ষ্য ও অর্জনের হিসাব দিন।</li><li>ময়নাতদন্ত ও ফরেনসিক প্রতিবেদনের বিলম্ব কমাতে জনবল, পরীক্ষাগার ও বাজেটের ঘাটতি কবে পূরণ হবে—সময়সীমা ঘোষণা করুন।</li></ul>
+      <h2>নিরাপত্তা কথায় নয়, নাগরিকের জীবনে প্রমাণ করতে হয়</h2>
+      <p>আমরা কোনো মৃত মানুষকে পরিসংখ্যানের একটি বিন্দু হিসেবে দেখতে রাজি নই। জজ মিয়া, শেখ ওয়াসিম রনি, রাব্বী কিংবা পরিচয়হীন নারী-পুরুষ—প্রতিটি জীবনের জন্য রাষ্ট্রের কাছে উত্তর আছে কি না, সেটিই সরকারের সক্ষমতার পরীক্ষা। পরিচয়হীন মানুষেরও পরিবার আছে, হত্যার শিকার মানুষেরও অসমাপ্ত জীবন আছে, আর প্রতিটি ব্যর্থ তদন্ত নতুন অপরাধীর সাহস বাড়ায়।</p>
+      <p>সরকার যদি সত্যিই পরিস্থিতি নিয়ন্ত্রণে রাখে, তবে প্রমাণ প্রকাশ করুক। অপরাধ কমার তথ্য, তদন্তের অগ্রগতি, বিচারের ফল এবং মানুষের নিরাপদ বোধ করার বাস্তব পরিবর্তন দেখাক। তা না হলে নিরাপত্তার দাবি কেবল স্লোগান হয়েই থাকবে। রাজধানীতে সাত দিনের এই ১১ মরদেহ আমাদের শেষ সতর্কতা নয়—এটি ইতিমধ্যে জমে ওঠা ব্যর্থতার হিসাব। সরকারকে এখন কথা নয়, জবাব দিতে হবে।</p><section class="sources"><h2>তথ্যসূত্র</h2><ol><li><a href="https://www.police.gov.bd/index.php/en/january_2020?page=1" rel="noopener noreferrer">বাংলাদেশ পুলিশ: ২০২৬ সালের মাসভিত্তিক সরকারি অপরাধ পরিসংখ্যানের তালিকা</a></li><li><a href="https://www.thedailystar.net/news/crime-justice/news/10-killings-day-fuel-concerns-over-law-and-order-4199896" rel="noopener noreferrer">দ্য ডেইলি স্টার: মার্চ–মে ২০২৬-এ ৯১৫ হত্যা মামলা ও এলাকাভিত্তিক হিসাব, ১৬ জুন ২০২৬</a></li><li><a href="https://www.tbsnews.net/bangladesh/crime/police-say-tibs-murder-statistic-does-not-indicate-crime-surge-reflects-historical" rel="noopener noreferrer">দ্য বিজনেস স্ট্যান্ডার্ড: হত্যা মামলার সংখ্যা নিয়ে পুলিশ সদর দপ্তরের ব্যাখ্যা, ৮ জুন ২০২৬</a></li><li><a href="https://www.thedailystar.net/news/crime-justice/news/body-parts-woman-recovered-adabar-canal-4271011" rel="noopener noreferrer">দ্য ডেইলি স্টার: আদাবরের খাল থেকে অজ্ঞাত নারীর খণ্ডিত মরদেহ উদ্ধার, ১২ সেপ্টেম্বর ২০২৬</a></li><li><a href="https://bangla.bdnews24.com/bangladesh/9fdc968ef90f" rel="noopener noreferrer">bdnews24.com: খিলগাঁওয়ের জিরানি খালের মরদেহ ও স্বীকারোক্তিমূলক জবানবন্দি, ১১ সেপ্টেম্বর ২০২৬</a></li><li><a href="https://bangla.bdnews24.com/bangladesh/ac74979b3867" rel="noopener noreferrer">bdnews24.com: লালবাগে ব্যবসায়ীর মাটিচাপা মরদেহ ও গ্রেপ্তার, ১১ সেপ্টেম্বর ২০২৬</a></li><li><a href="https://bangla.bdnews24.com/bangladesh/6d96235aea23" rel="noopener noreferrer">bdnews24.com: তৌহিদা হোসেন তিশার মৃত্যুতে পরিবার ও পুলিশের ভিন্ন প্রাথমিক বক্তব্য, ৯ সেপ্টেম্বর ২০২৬</a></li><li><a href="https://onlinebn.samakal24.com/capital/article/372017/%E2%80%8E%E0%A6%97%E0%A7%87%E0%A6%A8%E0%A7%8D%E0%A6%A1%E0%A6%BE%E0%A6%B0%E0%A6%BF%E0%A7%9F%E0%A6%BE%E0%A7%9F-%E0%A6%B6%E0%A6%BF%E0%A6%B6%E0%A7%81%E0%A6%B0-%E0%A6%AE%E0%A6%B0%E0%A6%A6%E0%A7%87%E0%A6%B9-%E0%A6%89%E0%A6%A6%E0%A7%8D%E0%A6%A7%E0%A6%BE%E0%A6%B0" rel="noopener noreferrer">সমকাল: গেন্ডারিয়ায় শিশু তানভীর হোসেনের মরদেহ উদ্ধার ও তদন্ত, ১০ সেপ্টেম্বর ২০২৬</a></li><li><a href="https://bangla.bdnews24.com/bangladesh/9d8f646592e4" rel="noopener noreferrer">bdnews24.com: জাতীয় ঈদগাহ এলাকার ফুটপাত থেকে দুই অজ্ঞাত ব্যক্তির মরদেহ উদ্ধার, ১২ সেপ্টেম্বর ২০২৬</a></li><li><a href="https://bangla.bdnews24.com/bangladesh/9618adf4b7c8" rel="noopener noreferrer">bdnews24.com: লালবাগের বাসা থেকে আইনজীবী আনোয়ার হোসেনের মরদেহ উদ্ধার, ১২ সেপ্টেম্বর ২০২৬</a></li><li><a href="https://www.jagonews24.com/national/news/1154846" rel="noopener noreferrer">জাগো নিউজ: গুলিস্তানে অজ্ঞাত বৃদ্ধের মরদেহ উদ্ধার, ৮ সেপ্টেম্বর ২০২৬</a></li><li><a href="https://www.jagonews24.com/national/news/1156098" rel="noopener noreferrer">জাগো নিউজ: যাত্রাবাড়ীর ছনটেকে রাব্বীর ছুরিকাঘাতে মৃত্যুর প্রতিবেদন, ১১ সেপ্টেম্বর ২০২৬</a></li><li><a href="https://www.asia-post.com/capital/apqawcvm57oy-%E0%A6%B0%E0%A6%BE%E0%A6%9C%E0%A6%A7%E0%A6%BE%E0%A6%A8%E0%A7%80%E0%A6%A4%E0%A7%87-%E0%A6%8F%E0%A6%95-%E0%A6%A6%E0%A6%BF%E0%A6%A8%E0%A7%87-%E0%A7%AB-%E0%A6%AE%E0%A6%B0%E0%A6%A6%E0%A7%87%E0%A6%B9-%E0%A6%89%E0%A6%A6%E0%A7%8D%E0%A6%A7%E0%A6%BE%E0%A6%B0" rel="noopener noreferrer">এশিয়া পোস্ট: ১২ সেপ্টেম্বর রাজধানীতে পাঁচ মরদেহ উদ্ধারের সংকলিত প্রতিবেদন</a></li></ol></section><div class="cta"><a href="/?blog=dhaka-seven-days-eleven-bodies-public-safety-2026#blog">ইন্টার্যাক্টিভ পাঠ খুলুন</a><a href="/">NCP Germany হোম</a></div></article>
   </main>
   <footer class="shell">© 2026 NCP Diaspora Alliance Germany · তথ্যভিত্তিক প্রবাসী অংশগ্রহণের প্ল্যাটফর্ম</footer>
 </body>

diff --git a/blog/dhaka-seven-days-eleven-bodies-public-safety-2026/de/index.html b/blog/dhaka-seven-days-eleven-bodies-public-safety-2026/de/index.html
@@ -4,15 +4,15 @@
   <meta charset="utf-8">
   <meta name="viewport" content="width=device-width, initial-scale=1">
   <meta name="robots" content="noindex,follow">
-  <title>সাত দিনের সংবাদে ঢাকায় ১১ মরদেহ: সব মৃত্যু হত্যা নয়—তবু নিরাপত্তার হিসাব কোথায়? | NCP Diaspora Alliance Germany</title>
-  <meta name="description" content="৭–১৩ সেপ্টেম্বরের সংবাদ-অনুসন্ধানে ঢাকার বিভিন্ন স্থান থেকে অন্তত ১১ জনের মরদেহ উদ্ধারের খবর মিলেছে। সবগুলো হত্যা নয়; তবু সহিংস মৃত্যু, অজ্ঞাত মরদেহ ও তদন্তের অগ্রগতি নিয়ে সরকারের প্রকাশ্য হিসাব জরুরি।">
+  <title>সাত দিনে রাজধানীতে ১১ মরদেহ: নিরাপত্তার ব্যর্থতা আর কত মৃত্যুতে স্বীকার করবে সরকার? | NCP Diaspora Alliance Germany</title>
+  <meta name="description" content="খণ্ডিত নারী, মাটিচাপা ব্যবসায়ী, ছুরিকাহত যুবক আর পরিচয়হীন মরদেহ—এক সপ্তাহের ঢাকা সরকারের নিরাপত্তা-দাবির সামনে নির্মম প্রশ্ন রেখে গেছে। জবাব এখন বিবৃতিতে নয়, দৃশ্যমান ফল ও প্রকাশ্য হিসাবে দিতে হবে।">
   <link rel="canonical" href="https://ncpdagermany.de/blog/dhaka-seven-days-eleven-bodies-public-safety-2026/de/">
   <meta property="og:type" content="article">
   <meta property="og:site_name" content="NCP Diaspora Alliance Germany">
   <meta property="og:locale" content="de_DE">
   <meta property="og:url" content="https://ncpdagermany.de/blog/dhaka-seven-days-eleven-bodies-public-safety-2026/de/">
-  <meta property="og:title" content="সাত দিনের সংবাদে ঢাকায় ১১ মরদেহ: সব মৃত্যু হত্যা নয়—তবু নিরাপত্তার হিসাব কোথায়?">
-  <meta property="og:description" content="৭–১৩ সেপ্টেম্বরের সংবাদ-অনুসন্ধানে ঢাকার বিভিন্ন স্থান থেকে অন্তত ১১ জনের মরদেহ উদ্ধারের খবর মিলেছে। সবগুলো হত্যা নয়; তবু সহিংস মৃত্যু, অজ্ঞাত মরদেহ ও তদন্তের অগ্রগতি নিয়ে সরকারের প্রকাশ্য হিসাব জরুরি।">
+  <meta property="og:title" content="সাত দিনে রাজধানীতে ১১ মরদেহ: নিরাপত্তার ব্যর্থতা আর কত মৃত্যুতে স্বীকার করবে সরকার?">
+  <meta property="og:description" content="খণ্ডিত নারী, মাটিচাপা ব্যবসায়ী, ছুরিকাহত যুবক আর পরিচয়হীন মরদেহ—এক সপ্তাহের ঢাকা সরকারের নিরাপত্তা-দাবির সামনে নির্মম প্রশ্ন রেখে গেছে। জবাব এখন বিবৃতিতে নয়, দৃশ্যমান ফল ও প্রকাশ্য হিসাবে দিতে হবে।">
   <meta property="og:image" content="https://ncpdagermany.de/img/blog/dhaka-public-safety-accountability-share.jpg">
   <meta property="og:image:secure_url" content="https://ncpdagermany.de/img/blog/dhaka-public-safety-accountability-share.jpg">
   <meta property="og:image:type" content="image/jpeg">
@@ -21,15 +21,15 @@
   <meta property="og:image:alt" content="Redaktionelle Grafik zur öffentlichen Sicherheit mit abstraktem Dhaka-Stadtplan, Sieben-Tage-Linie und elf Markierungen">
   <meta property="article:published_time" content="2026-09-14T14:22:00+02:00">
   <meta name="twitter:card" content="summary_large_image">
-  <meta name="twitter:title" content="সাত দিনের সংবাদে ঢাকায় ১১ মরদেহ: সব মৃত্যু হত্যা নয়—তবু নিরাপত্তার হিসাব কোথায়?">
-  <meta name="twitter:description" content="৭–১৩ সেপ্টেম্বরের সংবাদ-অনুসন্ধানে ঢাকার বিভিন্ন স্থান থেকে অন্তত ১১ জনের মরদেহ উদ্ধারের খবর মিলেছে। সবগুলো হত্যা নয়; তবু সহিংস মৃত্যু, অজ্ঞাত মরদেহ ও তদন্তের অগ্রগতি নিয়ে সরকারের প্রকাশ্য হিসাব জরুরি।">
+  <meta name="twitter:title" content="সাত দিনে রাজধানীতে ১১ মরদেহ: নিরাপত্তার ব্যর্থতা আর কত মৃত্যুতে স্বীকার করবে সরকার?">
+  <meta name="twitter:description" content="খণ্ডিত নারী, মাটিচাপা ব্যবসায়ী, ছুরিকাহত যুবক আর পরিচয়হীন মরদেহ—এক সপ্তাহের ঢাকা সরকারের নিরাপত্তা-দাবির সামনে নির্মম প্রশ্ন রেখে গেছে। জবাব এখন বিবৃতিতে নয়, দৃশ্যমান ফল ও প্রকাশ্য হিসাবে দিতে হবে।">
   <meta name="twitter:image" content="https://ncpdagermany.de/img/blog/dhaka-public-safety-accountability-share.jpg">
   <script>window.location.replace("/?blog=dhaka-seven-days-eleven-bodies-public-safety-2026&lang=de#blog");</script>
 </head>
 <body>
   <main>
-    <h1>সাত দিনের সংবাদে ঢাকায় ১১ মরদেহ: সব মৃত্যু হত্যা নয়—তবু নিরাপত্তার হিসাব কোথায়?</h1>
-    <p>৭–১৩ সেপ্টেম্বরের সংবাদ-অনুসন্ধানে ঢাকার বিভিন্ন স্থান থেকে অন্তত ১১ জনের মরদেহ উদ্ধারের খবর মিলেছে। সবগুলো হত্যা নয়; তবু সহিংস মৃত্যু, অজ্ঞাত মরদেহ ও তদন্তের অগ্রগতি নিয়ে সরকারের প্রকাশ্য হিসাব জরুরি।</p>
+    <h1>সাত দিনে রাজধানীতে ১১ মরদেহ: নিরাপত্তার ব্যর্থতা আর কত মৃত্যুতে স্বীকার করবে সরকার?</h1>
+    <p>খণ্ডিত নারী, মাটিচাপা ব্যবসায়ী, ছুরিকাহত যুবক আর পরিচয়হীন মরদেহ—এক সপ্তাহের ঢাকা সরকারের নিরাপত্তা-দাবির সামনে নির্মম প্রশ্ন রেখে গেছে। জবাব এখন বিবৃতিতে নয়, দৃশ্যমান ফল ও প্রকাশ্য হিসাবে দিতে হবে।</p>
     <p><a href="/?blog=dhaka-seven-days-eleven-bodies-public-safety-2026&amp;lang=de#blog">Artikel bei NCP Diaspora Alliance Germany lesen</a></p>
   </main>
 </body>

diff --git a/blog/dhaka-seven-days-eleven-bodies-public-safety-2026/en/index.html b/blog/dhaka-seven-days-eleven-bodies-public-safety-2026/en/index.html
@@ -4,15 +4,15 @@
   <meta charset="utf-8">
   <meta name="viewport" content="width=device-width, initial-scale=1">
   <meta name="robots" content="noindex,follow">
-  <title>সাত দিনের সংবাদে ঢাকায় ১১ মরদেহ: সব মৃত্যু হত্যা নয়—তবু নিরাপত্তার হিসাব কোথায়? | NCP Diaspora Alliance Germany</title>
-  <meta name="description" content="৭–১৩ সেপ্টেম্বরের সংবাদ-অনুসন্ধানে ঢাকার বিভিন্ন স্থান থেকে অন্তত ১১ জনের মরদেহ উদ্ধারের খবর মিলেছে। সবগুলো হত্যা নয়; তবু সহিংস মৃত্যু, অজ্ঞাত মরদেহ ও তদন্তের অগ্রগতি নিয়ে সরকারের প্রকাশ্য হিসাব জরুরি।">
+  <title>সাত দিনে রাজধানীতে ১১ মরদেহ: নিরাপত্তার ব্যর্থতা আর কত মৃত্যুতে স্বীকার করবে সরকার? | NCP Diaspora Alliance Germany</title>
+  <meta name="description" content="খণ্ডিত নারী, মাটিচাপা ব্যবসায়ী, ছুরিকাহত যুবক আর পরিচয়হীন মরদেহ—এক সপ্তাহের ঢাকা সরকারের নিরাপত্তা-দাবির সামনে নির্মম প্রশ্ন রেখে গেছে। জবাব এখন বিবৃতিতে নয়, দৃশ্যমান ফল ও প্রকাশ্য হিসাবে দিতে হবে।">
   <link rel="canonical" href="https://ncpdagermany.de/blog/dhaka-seven-days-eleven-bodies-public-safety-2026/en/">
   <meta property="og:type" content="article">
   <meta property="og:site_name" content="NCP Diaspora Alliance Germany">
   <meta property="og:locale" content="en_US">
   <meta property="og:url" content="https://ncpdagermany.de/blog/dhaka-seven-days-eleven-bodies-public-safety-2026/en/">
-  <meta property="og:title" content="সাত দিনের সংবাদে ঢাকায় ১১ মরদেহ: সব মৃত্যু হত্যা নয়—তবু নিরাপত্তার হিসাব কোথায়?">
-  <meta property="og:description" content="৭–১৩ সেপ্টেম্বরের সংবাদ-অনুসন্ধানে ঢাকার বিভিন্ন স্থান থেকে অন্তত ১১ জনের মরদেহ উদ্ধারের খবর মিলেছে। সবগুলো হত্যা নয়; তবু সহিংস মৃত্যু, অজ্ঞাত মরদেহ ও তদন্তের অগ্রগতি নিয়ে সরকারের প্রকাশ্য হিসাব জরুরি।">
+  <meta property="og:title" content="সাত দিনে রাজধানীতে ১১ মরদেহ: নিরাপত্তার ব্যর্থতা আর কত মৃত্যুতে স্বীকার করবে সরকার?">
+  <meta property="og:description" content="খণ্ডিত নারী, মাটিচাপা ব্যবসায়ী, ছুরিকাহত যুবক আর পরিচয়হীন মরদেহ—এক সপ্তাহের ঢাকা সরকারের নিরাপত্তা-দাবির সামনে নির্মম প্রশ্ন রেখে গেছে। জবাব এখন বিবৃতিতে নয়, দৃশ্যমান ফল ও প্রকাশ্য হিসাবে দিতে হবে।">
   <meta property="og:image" content="https://ncpdagermany.de/img/blog/dhaka-public-safety-accountability-share.jpg">
   <meta property="og:image:secure_url" content="https://ncpdagermany.de/img/blog/dhaka-public-safety-accountability-share.jpg">
   <meta property="og:image:type" content="image/jpeg">
@@ -21,15 +21,15 @@
   <meta property="og:image:alt" content="Editorial public-safety illustration showing an abstract map of Dhaka, a seven-day timeline and eleven markers">
   <meta property="article:published_time" content="2026-09-14T14:22:00+02:00">
   <meta name="twitter:card" content="summary_large_image">
-  <meta name="twitter:title" content="সাত দিনের সংবাদে ঢাকায় ১১ মরদেহ: সব মৃত্যু হত্যা নয়—তবু নিরাপত্তার হিসাব কোথায়?">
-  <meta name="twitter:description" content="৭–১৩ সেপ্টেম্বরের সংবাদ-অনুসন্ধানে ঢাকার বিভিন্ন স্থান থেকে অন্তত ১১ জনের মরদেহ উদ্ধারের খবর মিলেছে। সবগুলো হত্যা নয়; তবু সহিংস মৃত্যু, অজ্ঞাত মরদেহ ও তদন্তের অগ্রগতি নিয়ে সরকারের প্রকাশ্য হিসাব জরুরি।">
+  <meta name="twitter:title" content="সাত দিনে রাজধানীতে ১১ মরদেহ: নিরাপত্তার ব্যর্থতা আর কত মৃত্যুতে স্বীকার করবে সরকার?">
+  <meta name="twitter:description" content="খণ্ডিত নারী, মাটিচাপা ব্যবসায়ী, ছুরিকাহত যুবক আর পরিচয়হীন মরদেহ—এক সপ্তাহের ঢাকা সরকারের নিরাপত্তা-দাবির সামনে নির্মম প্রশ্ন রেখে গেছে। জবাব এখন বিবৃতিতে নয়, দৃশ্যমান ফল ও প্রকাশ্য হিসাবে দিতে হবে।">
   <meta name="twitter:image" content="https://ncpdagermany.de/img/blog/dhaka-public-safety-accountability-share.jpg">
   <script>window.location.replace("/?blog=dhaka-seven-days-eleven-bodies-public-safety-2026&lang=en#blog");</script>
 </head>
 <body>
   <main>
-    <h1>সাত দিনের সংবাদে ঢাকায় ১১ মরদেহ: সব মৃত্যু হত্যা নয়—তবু নিরাপত্তার হিসাব কোথায়?</h1>
-    <p>৭–১৩ সেপ্টেম্বরের সংবাদ-অনুসন্ধানে ঢাকার বিভিন্ন স্থান থেকে অন্তত ১১ জনের মরদেহ উদ্ধারের খবর মিলেছে। সবগুলো হত্যা নয়; তবু সহিংস মৃত্যু, অজ্ঞাত মরদেহ ও তদন্তের অগ্রগতি নিয়ে সরকারের প্রকাশ্য হিসাব জরুরি।</p>
+    <h1>সাত দিনে রাজধানীতে ১১ মরদেহ: নিরাপত্তার ব্যর্থতা আর কত মৃত্যুতে স্বীকার করবে সরকার?</h1>
+    <p>খণ্ডিত নারী, মাটিচাপা ব্যবসায়ী, ছুরিকাহত যুবক আর পরিচয়হীন মরদেহ—এক সপ্তাহের ঢাকা সরকারের নিরাপত্তা-দাবির সামনে নির্মম প্রশ্ন রেখে গেছে। জবাব এখন বিবৃতিতে নয়, দৃশ্যমান ফল ও প্রকাশ্য হিসাবে দিতে হবে।</p>
     <p><a href="/?blog=dhaka-seven-days-eleven-bodies-public-safety-2026&amp;lang=en#blog">Read the article on NCP Diaspora Alliance Germany</a></p>
   </main>
 </body>
